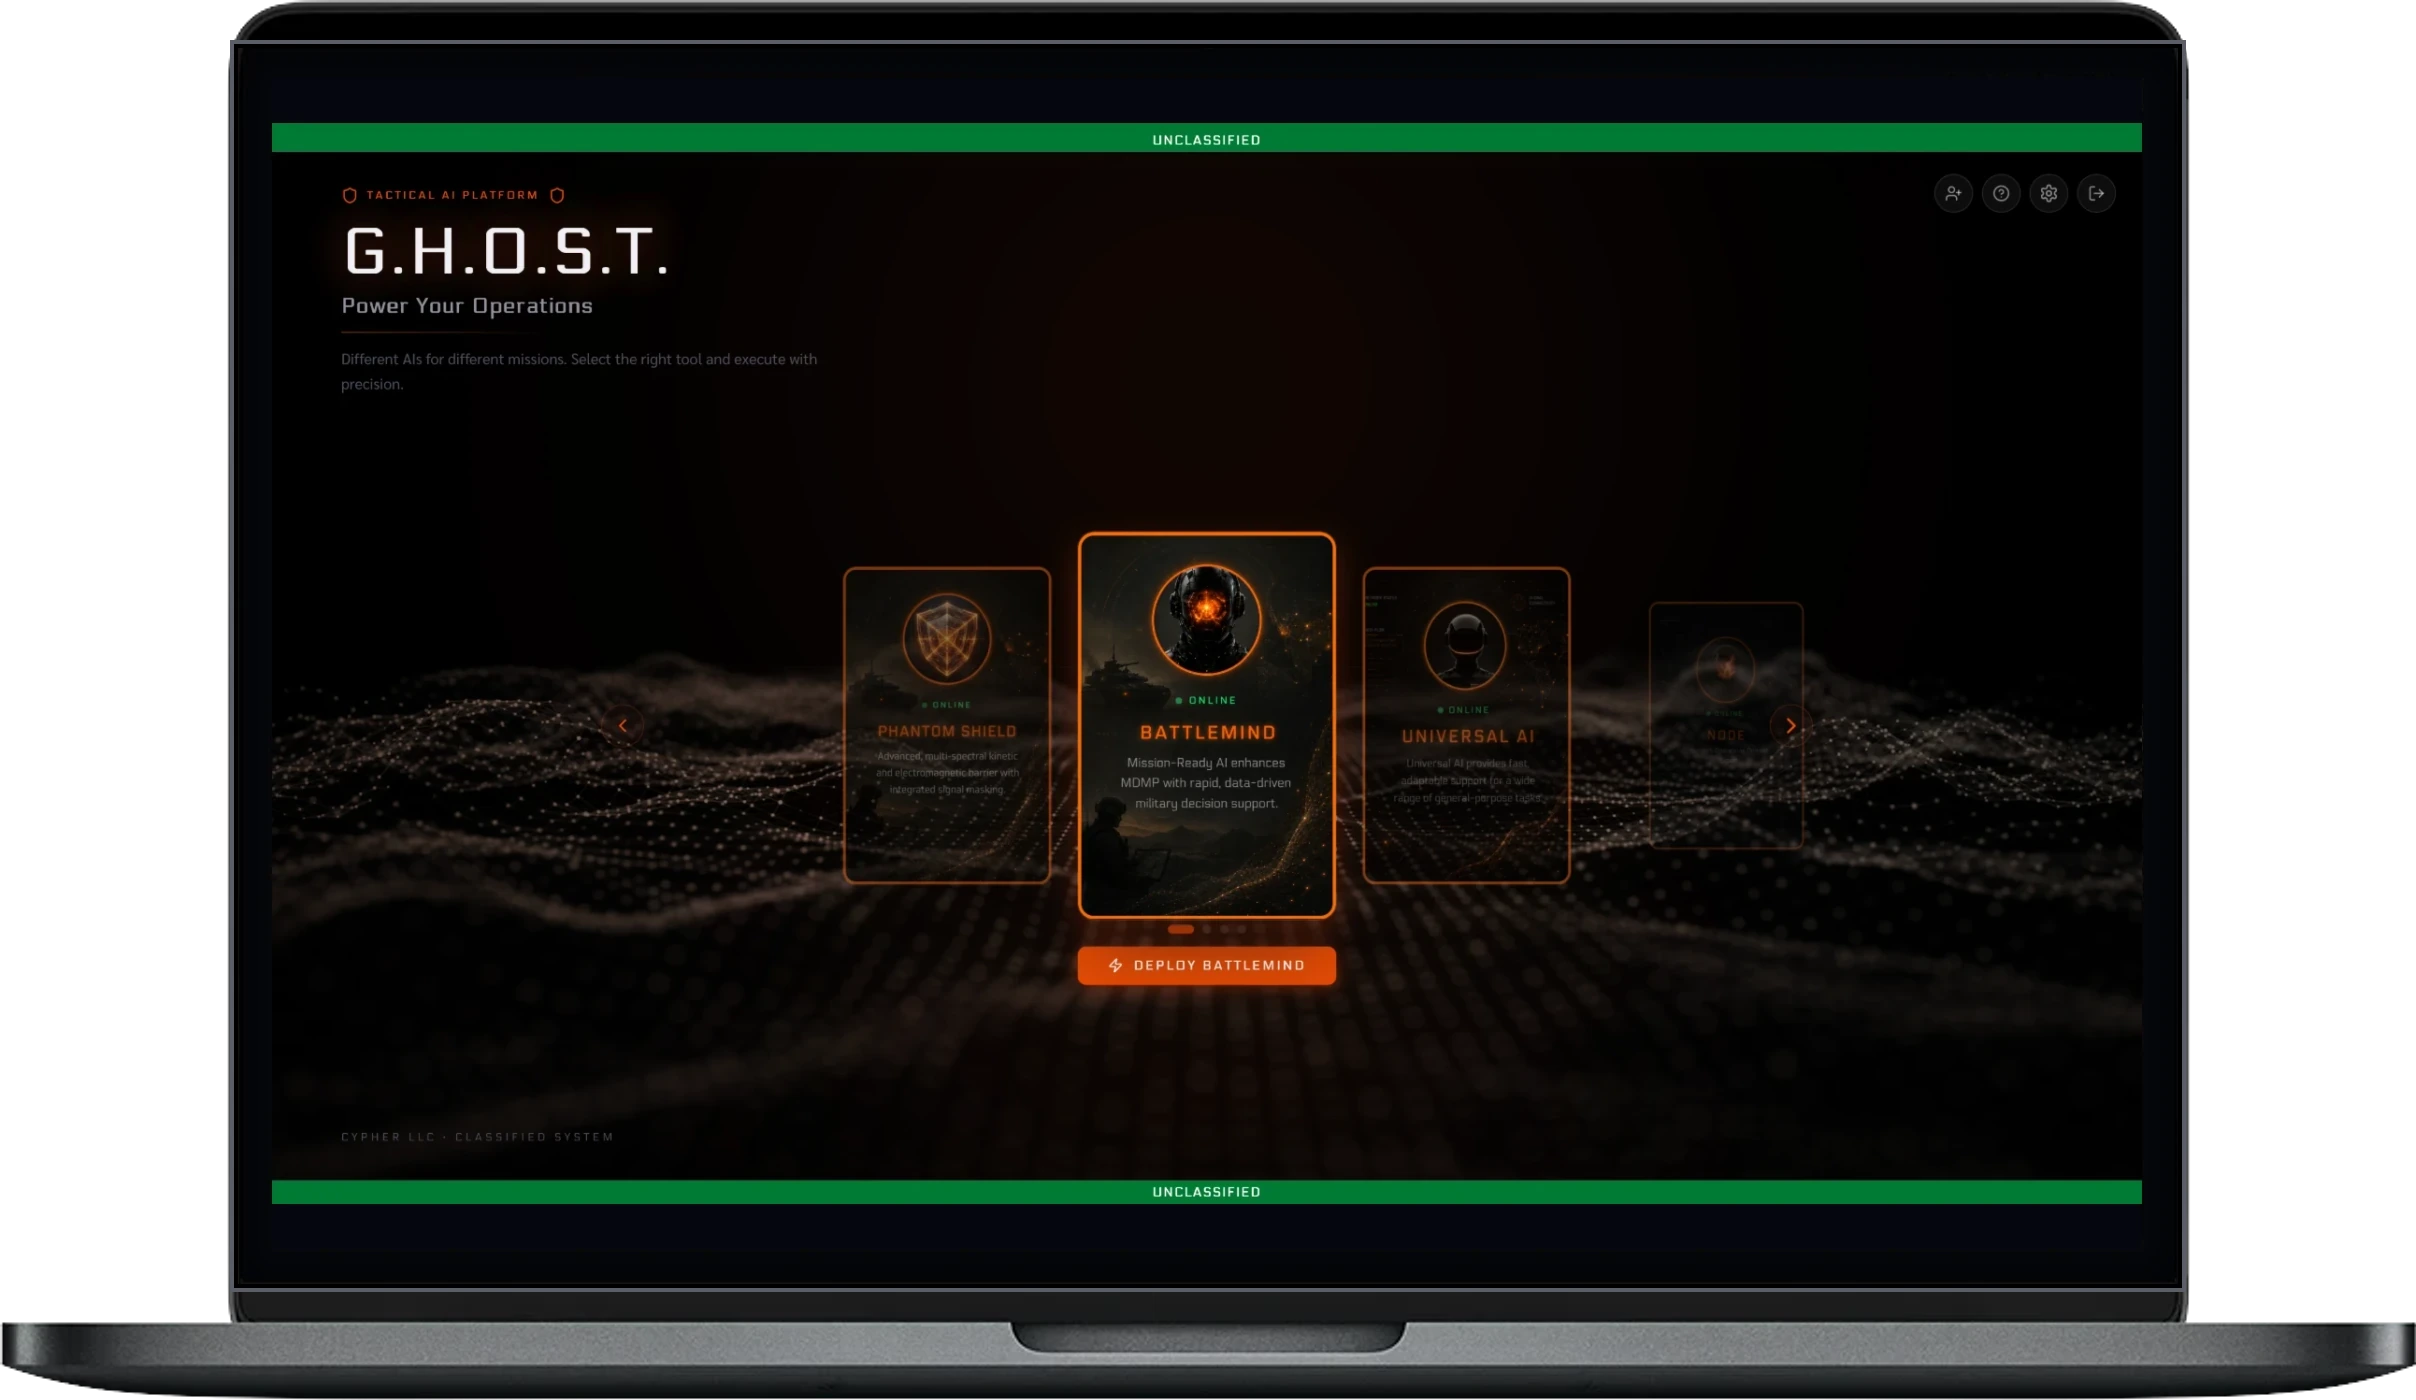
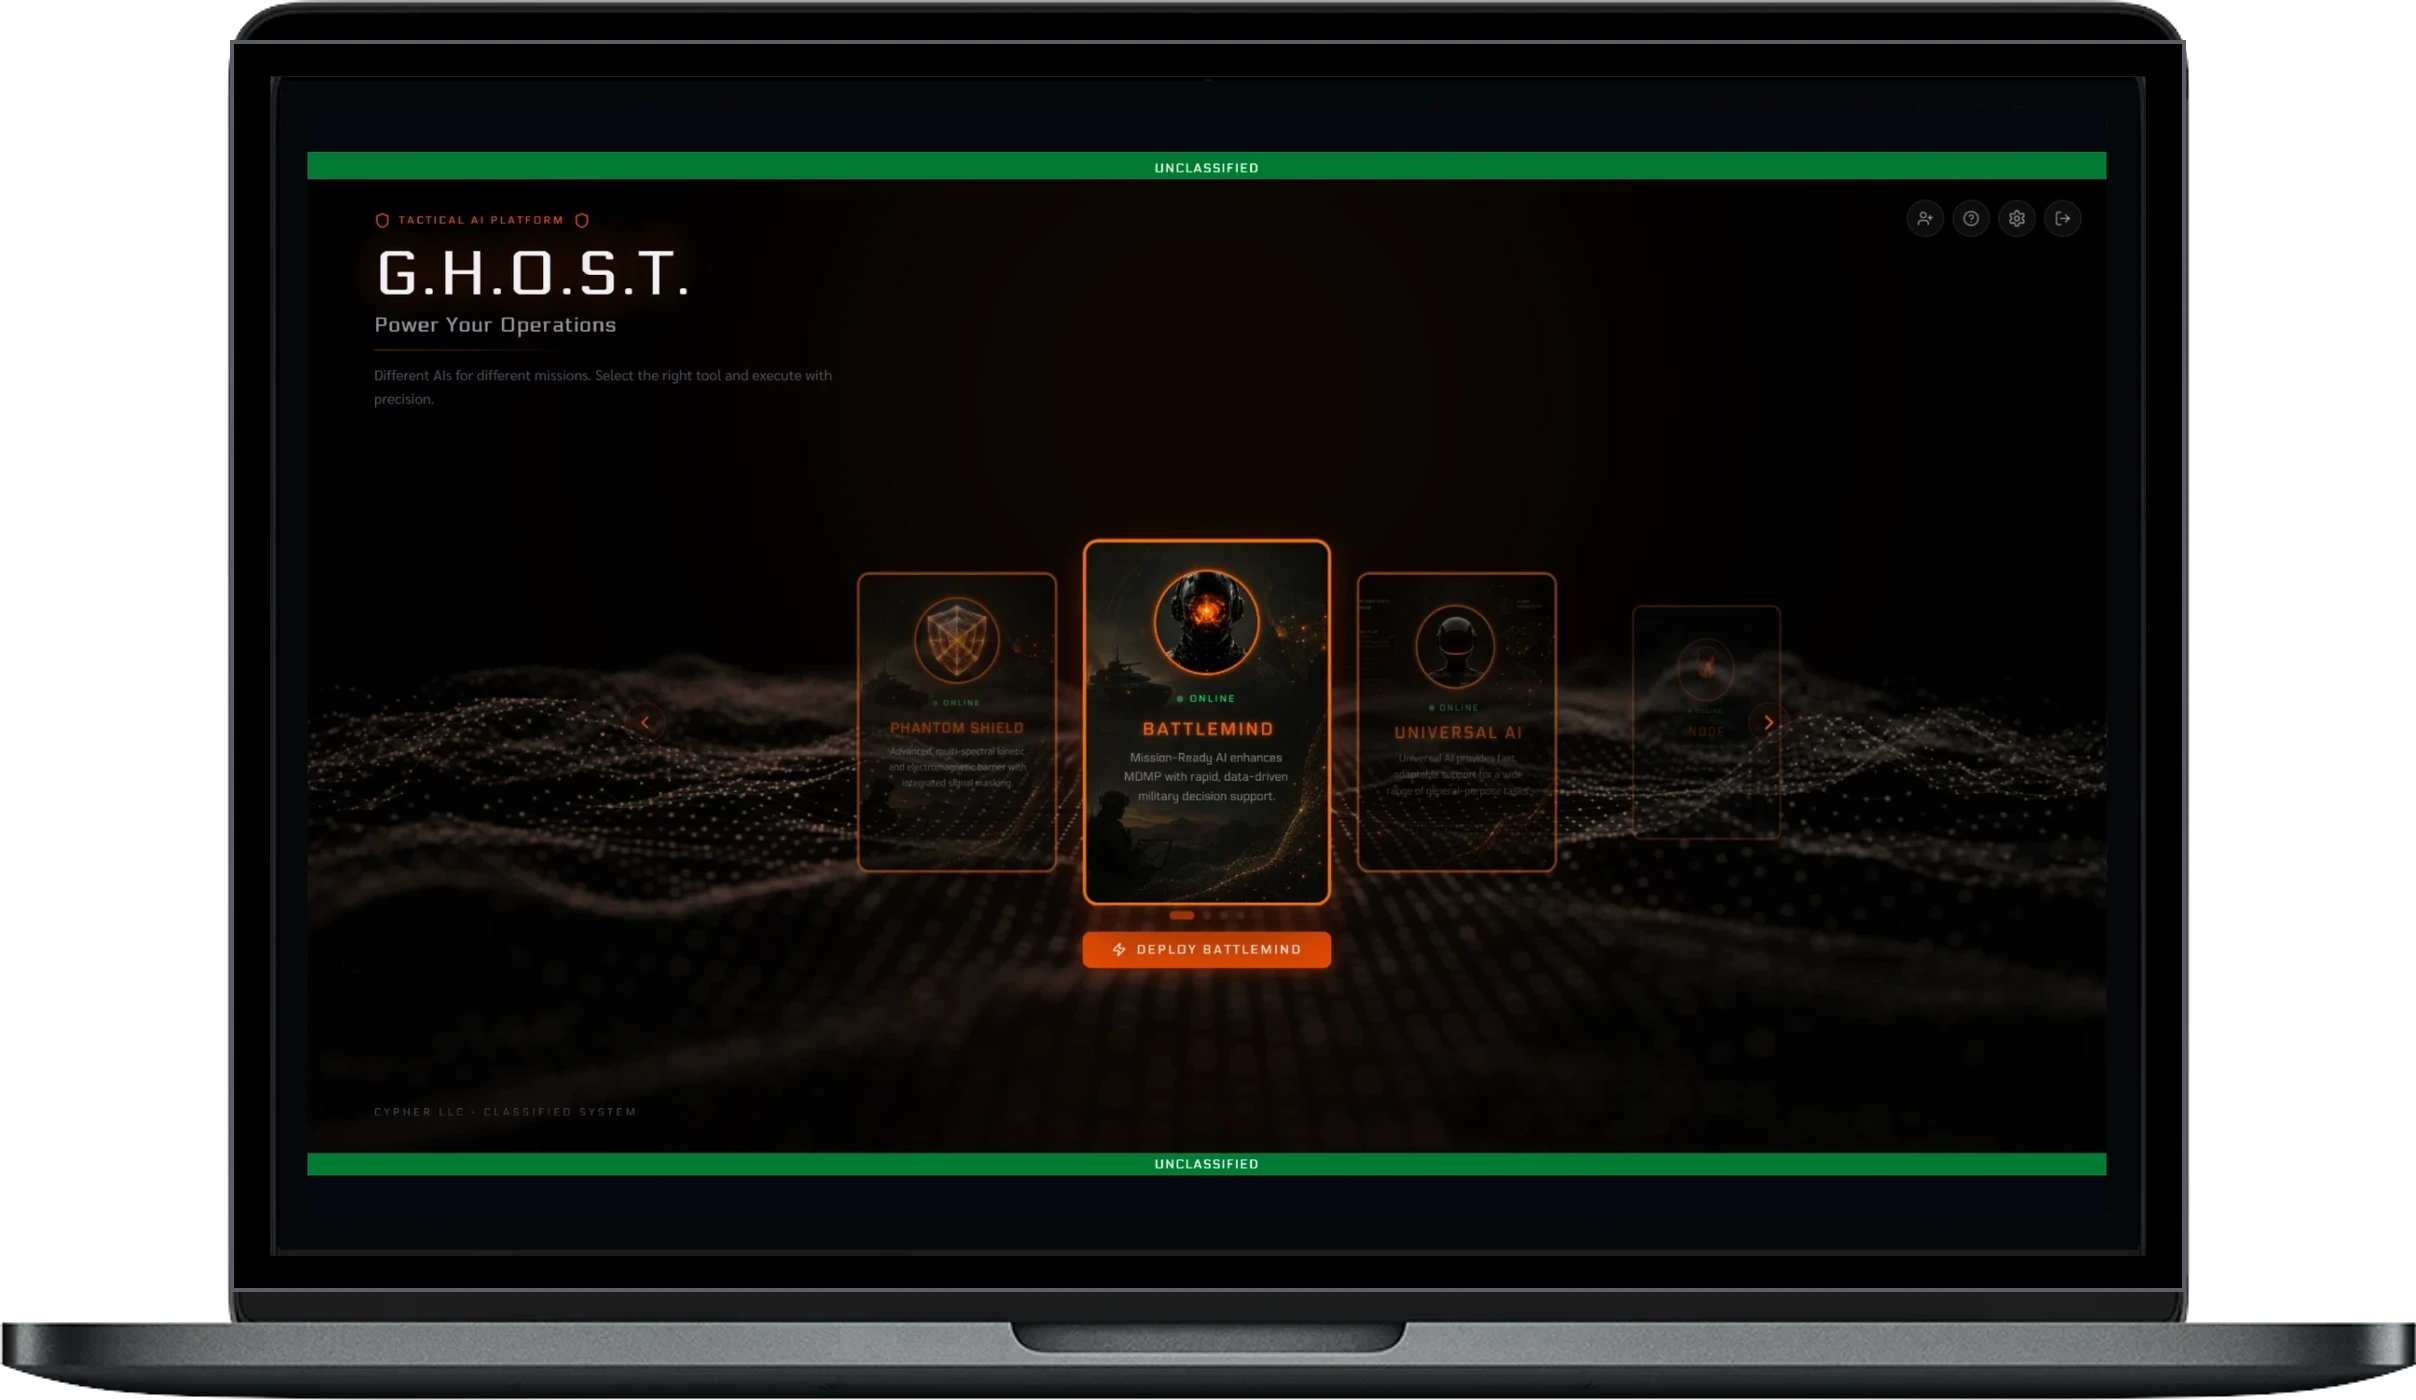
Laptop screens: real black bezel around the display

diff --git a/index.html b/index.html
@@ -76,7 +76,7 @@
             <p class="lead">A modular agentic AI platform that runs on-premises, in a private cloud or fully disconnected, so data never leaves your environment.</p>
             <div class="btn-row"><a class="btn btn-primary" href="products.html#ghost">About G.H.O.S.T. <svg class="" aria-hidden="true" focusable="false"><use href="#i-arrow"/></svg></a><a class="btn btn-outline" href="contact.html">Ask for a demo</a></div>
           </div>
-          <div class="visual"><div class="duo"><figure class="device monitor mocked"><img src="assets/img/mock/ghost-battlemind-imac.webp?v=g" loading="lazy" alt="G.H.O.S.T. BattleMind running a Warning Order workflow, with the agentic loop showing each step"></figure><figure class="device laptop mocked"><img src="assets/img/mock/ghost-home-macbook.webp?v=g" loading="lazy" alt="G.H.O.S.T. home screen offering a choice of AI models"></figure></div></div>
+          <div class="visual"><div class="duo"><figure class="device monitor mocked"><img src="assets/img/mock/ghost-battlemind-imac.webp?v=g" loading="lazy" alt="G.H.O.S.T. BattleMind running a Warning Order workflow, with the agentic loop showing each step"></figure><figure class="device laptop mocked"><img src="assets/img/mock/ghost-home-macbook.webp?v=h" loading="lazy" alt="G.H.O.S.T. home screen offering a choice of AI models"></figure></div></div>
         </div>
       </div>
       <div class="slide" role="group" aria-roledescription="slide" aria-label="4 of 4">
@@ -221,7 +221,7 @@
           <ul class="checks"><li><svg class="" aria-hidden="true" focusable="false"><use href="#i-arrow"/></svg>Modular AI agents for domain-specific, one-click automated workflows, with no prompt engineering</li><li><svg class="" aria-hidden="true" focusable="false"><use href="#i-arrow"/></svg>Runs on-premises, in a private cloud, hybrid or fully disconnected, with an optional zero-connectivity, no-call-home design</li><li><svg class="" aria-hidden="true" focusable="false"><use href="#i-arrow"/></svg>Reads PDF, Word, PowerPoint, Excel, text and images, and cites the source document for every output</li><li><svg class="" aria-hidden="true" focusable="false"><use href="#i-arrow"/></svg>More than 30 mission agents, including BATTLEMIND for mission planning, NODE for network operations, TALON for cyber threat intelligence and ARIA for post-award acquisition</li></ul>
           <div class="btn-row"><a class="btn btn-outline" href="products.html#ghost">About G.H.O.S.T.</a></div>
         </div>
-        <div class="tilt-in"><div class="duo"><figure class="device monitor mocked"><img src="assets/img/mock/ghost-battlemind-imac.webp?v=g" loading="lazy" alt="G.H.O.S.T. BattleMind running a Warning Order workflow, with the agentic loop showing each step"></figure><figure class="device laptop mocked"><img src="assets/img/mock/ghost-home-macbook.webp?v=g" loading="lazy" alt="G.H.O.S.T. home screen offering a choice of AI models"></figure></div></div>
+        <div class="tilt-in"><div class="duo"><figure class="device monitor mocked"><img src="assets/img/mock/ghost-battlemind-imac.webp?v=g" loading="lazy" alt="G.H.O.S.T. BattleMind running a Warning Order workflow, with the agentic loop showing each step"></figure><figure class="device laptop mocked"><img src="assets/img/mock/ghost-home-macbook.webp?v=h" loading="lazy" alt="G.H.O.S.T. home screen offering a choice of AI models"></figure></div></div>
       </div>
       <div class="product flip">
         <div class="copy reveal">

diff --git a/products.html b/products.html
@@ -57,7 +57,7 @@
         <div class="btn-row"><a class="btn btn-primary" href="https://ghostplatform.ai">Visit ghostplatform.ai <svg class="" aria-hidden="true" focusable="false"><use href="#i-arrow"/></svg></a></div>
       </div>
       <div class="pv">
-      <div class="tilt-in"><div class="duo"><figure class="device monitor mocked"><img src="assets/img/mock/ghost-battlemind-imac.webp?v=g" loading="lazy" alt="G.H.O.S.T. BattleMind running a Warning Order workflow, with the agentic loop showing each step"></figure><figure class="device laptop mocked"><img src="assets/img/mock/ghost-home-macbook.webp?v=g" loading="lazy" alt="G.H.O.S.T. home screen offering a choice of AI models"></figure></div></div>
+      <div class="tilt-in"><div class="duo"><figure class="device monitor mocked"><img src="assets/img/mock/ghost-battlemind-imac.webp?v=g" loading="lazy" alt="G.H.O.S.T. BattleMind running a Warning Order workflow, with the agentic loop showing each step"></figure><figure class="device laptop mocked"><img src="assets/img/mock/ghost-home-macbook.webp?v=h" loading="lazy" alt="G.H.O.S.T. home screen offering a choice of AI models"></figure></div></div>
     <div class="gcaps" id="ghost-capabilities">
       <div class="gcaps-head reveal">
         <p class="eyebrow">Platform capabilities</p>

diff --git a/js/capabilities-data.js b/js/capabilities-data.js
@@ -159,7 +159,7 @@ window.CYPHER_STATEMENT = {
   // "logo" and "screenshot" are files in assets/img/. The screenshot is shown
   // inside a laptop drawing. "logoOnDark" is used if the logo sits on a dark panel.
   products: [
-    { name: "G.H.O.S.T.", logo: "assets/img/ghost-logo-dark.png", screenshot: "assets/img/mock/ghost-home-macbook.webp?v=g",
+    { name: "G.H.O.S.T.", logo: "assets/img/ghost-logo-dark.png", screenshot: "assets/img/mock/ghost-home-macbook.webp?v=h",
       text: "**A modular agentic AI platform** for national security and enterprise missions. Mission-specific agents run multi-step workflows on-premises, in a private cloud or fully disconnected.",
       points: [
         "Modular agents with one-click automated workflows",
